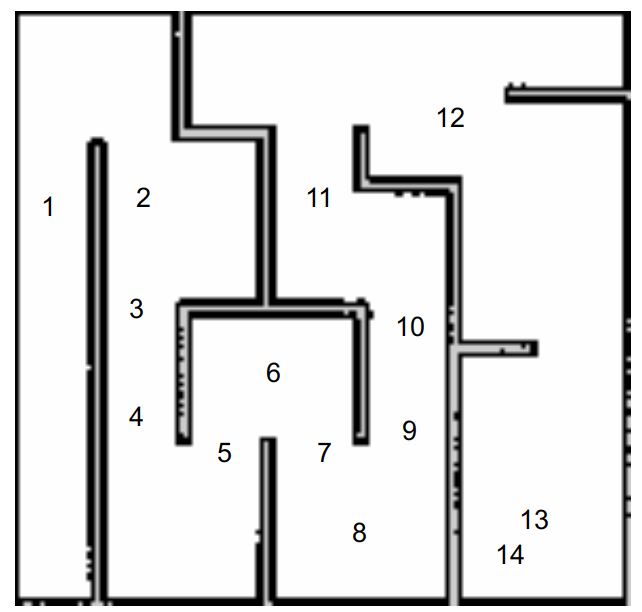
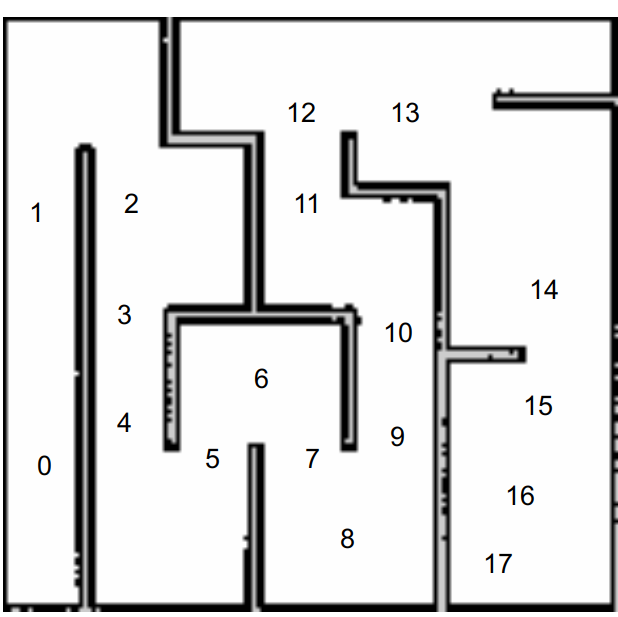
优化了关键点布局，稳定26s

diff --git a/ifly_navigation/src/pure_pursuit.py b/ifly_navigation/src/pure_pursuit.py
@@ -26,10 +26,10 @@ L = 2.9  # 车辆轴距，单位：m
 # 关键点数组
 # [x,y,yaw,max_vel_x,acc_lim,theta]
 key_points = [
-    [2.402670, -0.000090, 0.000, 2.0, 1.5],  #
+    [2.402670, -0.000090, 0.000, 1.85, 1.5],  # 0
     [3.511233, -0.000090, 0.000, 0.8, 1.5],  # 1
     [4.561621, -1.253595, 3.082496, 1.2, 1.5],  # 2
-    [2.936867, -1.032038, -3.14, 1.5, 1.5],  # 3
+    [2.936867, -1.032038, -3.14, 1.45, 1.5],  # 3
     [1.995490, -1.044512, -2.983582, 0.9, 1.5],  # 4
     # [4.646070, -1.056370, -2.934374,1.3],  # 5
     # [2.218460, -2.536215, -1.542630,1.3],  # 6
@@ -37,12 +37,13 @@ key_points = [
     # [4.646070, -1.056370, -2.934374,1.3],  # 8
     [1.504895, -4.168083, 0.000, 1.3, 1.5],  # 9
     [2.956114, -4.201780, 0.000, 1.08, 1.5],  # 10
-    [4.295692, -3.125136, 0.000, 1.17, 1.5],  # 11
-    [5.194778, -4.593526, -2.392219, 1.9, 2.0],  # 12
-    [2.902147, -5.983389, 0, 1.7, 2],  # 13
-    # [],
-    [1.026895, -5.841389, 2.962307, 0.6, 1.0],  #
-    [-0.2504603767395, -5.2709980011, 2.446521, 0.0, 0]  # 终点
+    [4.295692, -3.125136, 0.000, 1.3, 1.5],  # 11
+    [5.027173, -3.123793, 0.000, 1.1, 1.5],  # 12
+    [5.194778, -4.593526, -2.392219, 2.0, 2.0],  # 13
+    [2.902147, -5.983389, 0, 1.7, 2],  # 14
+    [1.717385, -5.971060, 0, 1.5, 2],  # 15
+    [0.836030, -5.705181, 2.962307, 0.7, 1.0],  # 16
+    [-0.2504603767395, -5.2709980011, 2.446521, 0.0, 0]  # 17 终点
 ]
 
 
@@ -268,7 +269,7 @@ class PathFollower:
         #     self.linear_vel_x, self.running_speed -
         #     abs(ang_ctrl_value)*0.2)
         vel_x_ctrl_value = self.running_speed - \
-            abs(ang_ctrl_value)*0.1 # 角速度太大时要限制线速度，否则车会飞
+            abs(ang_ctrl_value)*0.1  # 角速度太大时要限制线速度，否则车会飞
         # print("ctrl_value:%5.2f now:%5.2f" %
         #       (vel_x_ctrl_value, self.linear_vel_x))
 
